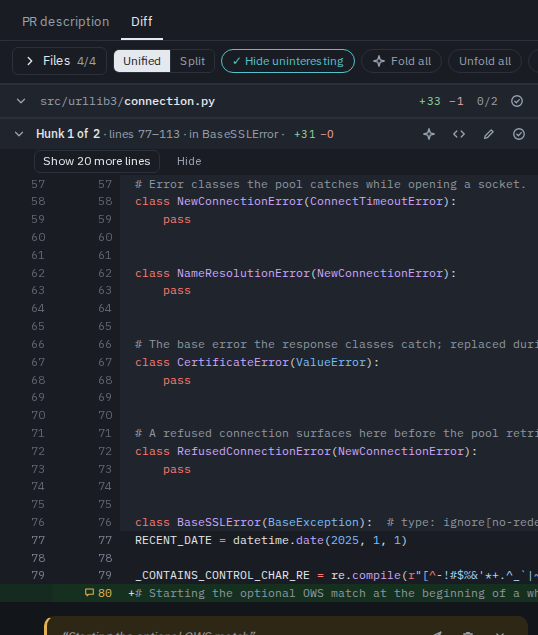
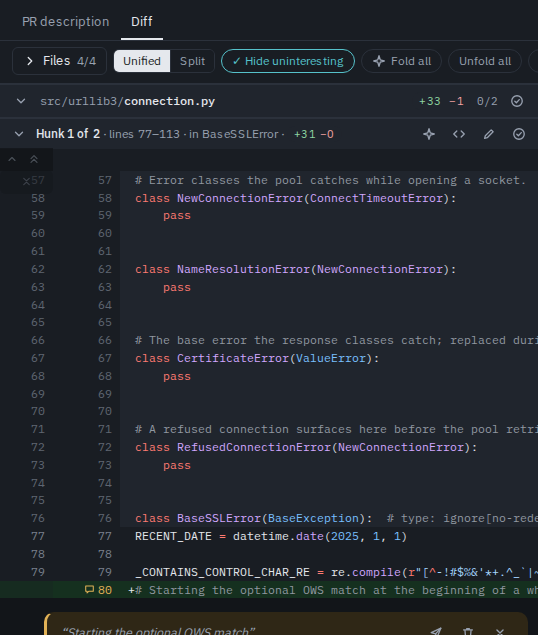
Owner feedback wording + retaken 133 screenshots

diff --git a/PRD.md b/PRD.md
@@ -220,10 +220,11 @@ Every card and every expansion card has the same controls:
 - **One-line changes are never hidden.** A real version should also never hide a hunk that the guide cites.
 
 **Expand beyond hunks**
-- Step controls above and below every hunk reveal context a few lines at a time; the gap between two hunks also offers Show all. A fully revealed gap reads as continuous.
-- Revealed lines are context: visibly apart from the diff's own lines, syntax-coloured like the rest, collapsible back per region.
+- Quiet caret icons in the line-number gutter reveal context: a single caret steps a few lines, a double caret shows a whole hidden run; direction follows where lines appear. No text labels, no control rows that read as content.
+- Each gap holds one hidden run with one set of controls sharing its remaining count. Continuous boundaries — fully revealed gaps, adjacent hunks, file edges — show no controls. Revealed blocks collapse back through a quiet fold icon on their first line's gutter.
+- Revealed lines are context: visibly apart from the diff's own lines, syntax-coloured like the rest.
 - Deleted files expand on the old side, new files on the new side; binary files offer no expansion. Old and new numbers stay aligned in Split.
-- Revealed lines offer Explain and Ask, anchored on the diff line (read as `code:<path>:<lines>@<sha>`). Note is not offered there.
+- Revealed lines offer Explain, Ask and GitHub, anchored on the diff line (read as `code:<path>:<lines>@<sha>`). Comment is not offered there.
 - Expand by unit: one control per hunk steps from the innermost enclosing function or method to its class and then the file, one level per click, with the unit's name in the hunk header. Units come from tree-sitter grammars (eight languages) with an indentation fallback shown as approximate; hunks with no enclosing unit expand by lines.
 - Where the review has no file content to read, expansion controls hide instead of showing load errors.
 

diff --git a/docs/acceptance-audit.md b/docs/acceptance-audit.md
@@ -630,17 +630,21 @@ needed (that deviation is closed, not added).
   `GET /api/reviews/:id/file` serves raw ranges at a commit through the
   shared `readCodeSlice` source with a per-request cap
   (`service/src/routes/files.ts`, `service/test/file-slice.test.ts` 4
-  tests); step controls above/below each hunk (20 lines) plus gap
-  show-all with a slim hide when fully revealed, so the hunks read as
-  continuous (`web/src/source/diff/FileExpansion.tsx`,
-  `expandLines.test.ts` 9 tests, `FileExpansion.test.tsx` 5 tests,
-  `e2e/diff-expand.spec.ts` 4 tests); revealed rows are tinted context
+  tests); quiet gutter caret icons (single = 20-line step, double =
+  whole run) in thin separator rows frozen left while code scrolls, one
+  hidden run per gap sharing one remaining count from both ends, no
+  controls on continuous boundaries (fully revealed or zero-line gaps,
+  file edges; the total is probed up front for single-hunk files), and a
+  quiet fold icon on each revealed block's first gutter number instead
+  of control rows (`web/src/source/diff/FileExpansion.tsx`,
+  `expandLines.test.ts` 10 tests, `FileExpansion.test.tsx` 14 tests,
+  `e2e/diff-expand.spec.ts` 8 tests); revealed rows are tinted context
   with Shiki colours in unified and split, both sides aligned
   (`expand.css`, `highlightLines`); deleted files expand on the old
   side, new files on the new side, binary files offer nothing, renames
   read the new path at head — nothing throws; revealed lines offer
-  Explain and Ask on the diff-line anchor (read as
-  `code:<path>:<lines>@<sha>`) while Note stays hidden there
+  Explain, Ask and GitHub on the diff-line anchor (read as
+  `code:<path>:<lines>@<sha>`) while Comment stays hidden there
   (`SelectionToolbar.test.tsx`); `docs/screenshots/133-*.png`.
 - Expand beyond hunks, by unit (issue #133, stage 2) — met:
   `GET /api/reviews/:id/outline` answers the enclosing chain for a hunk
